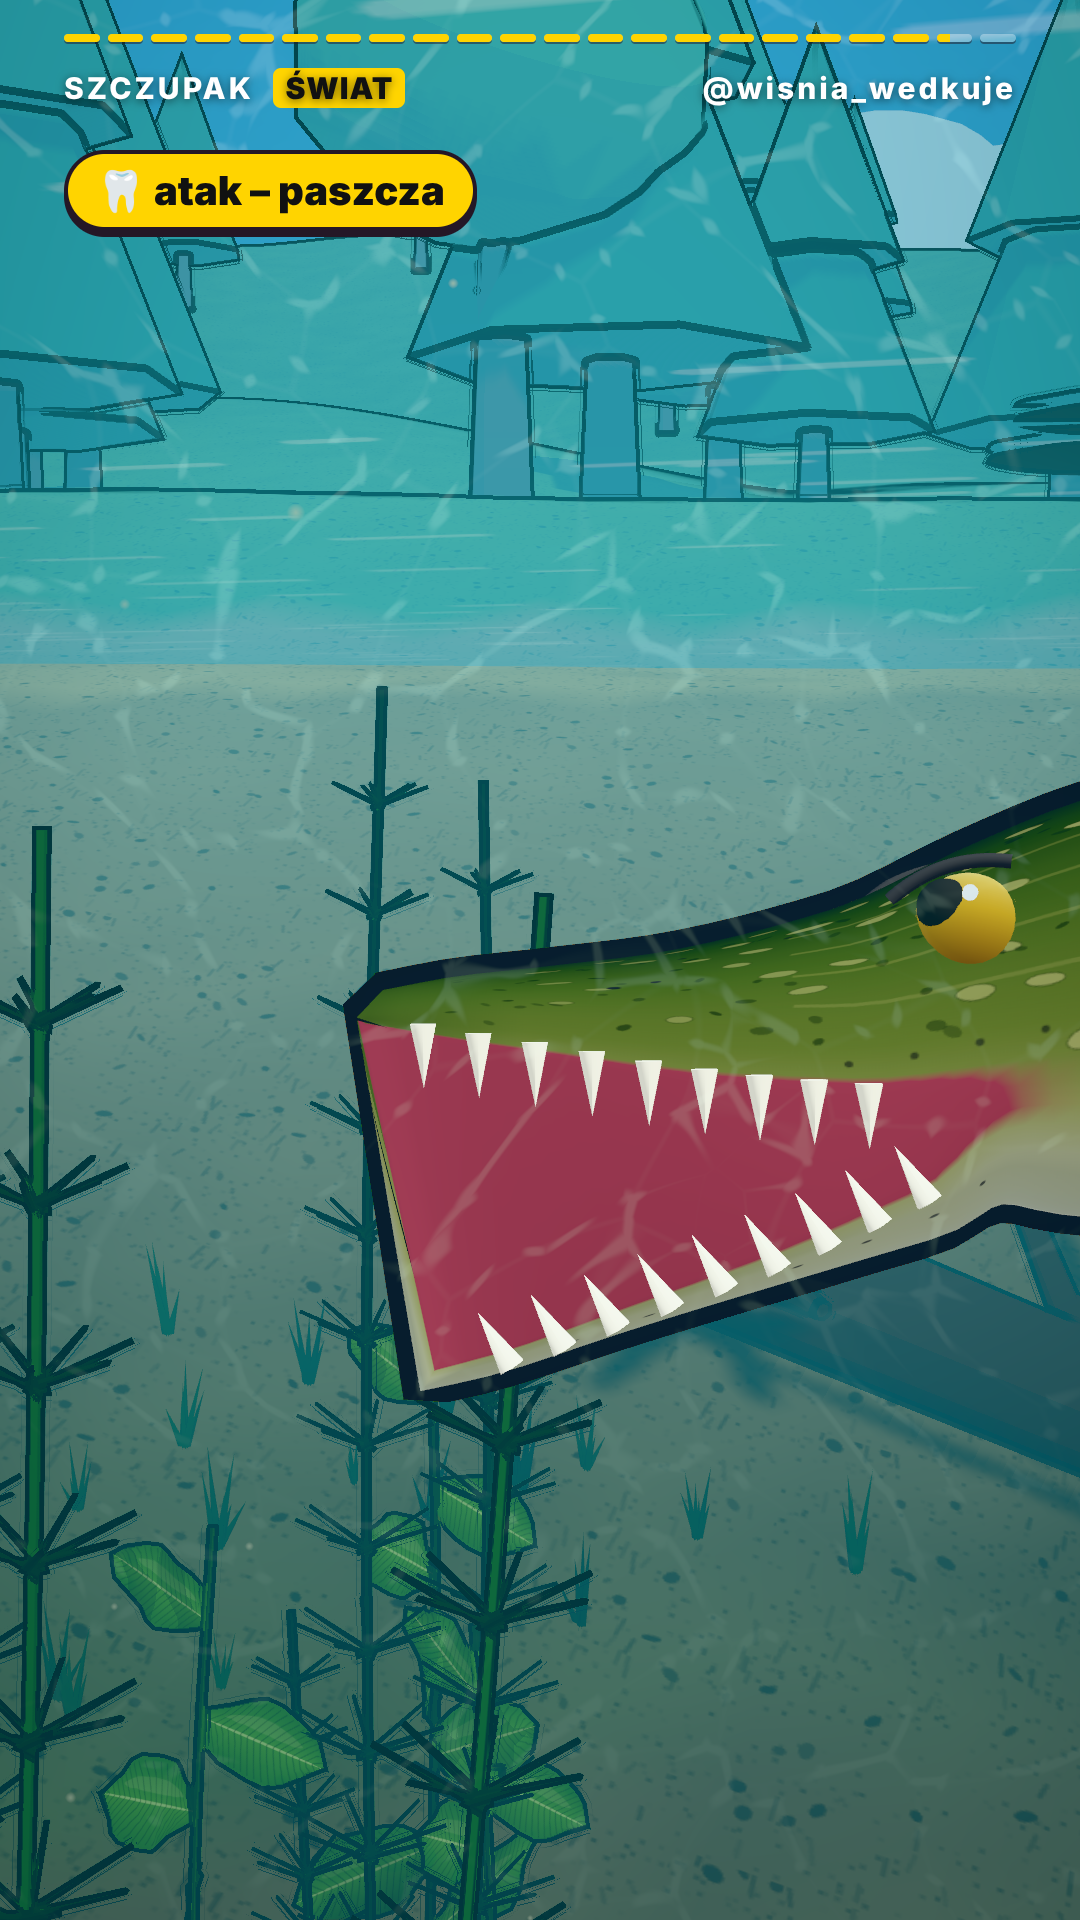
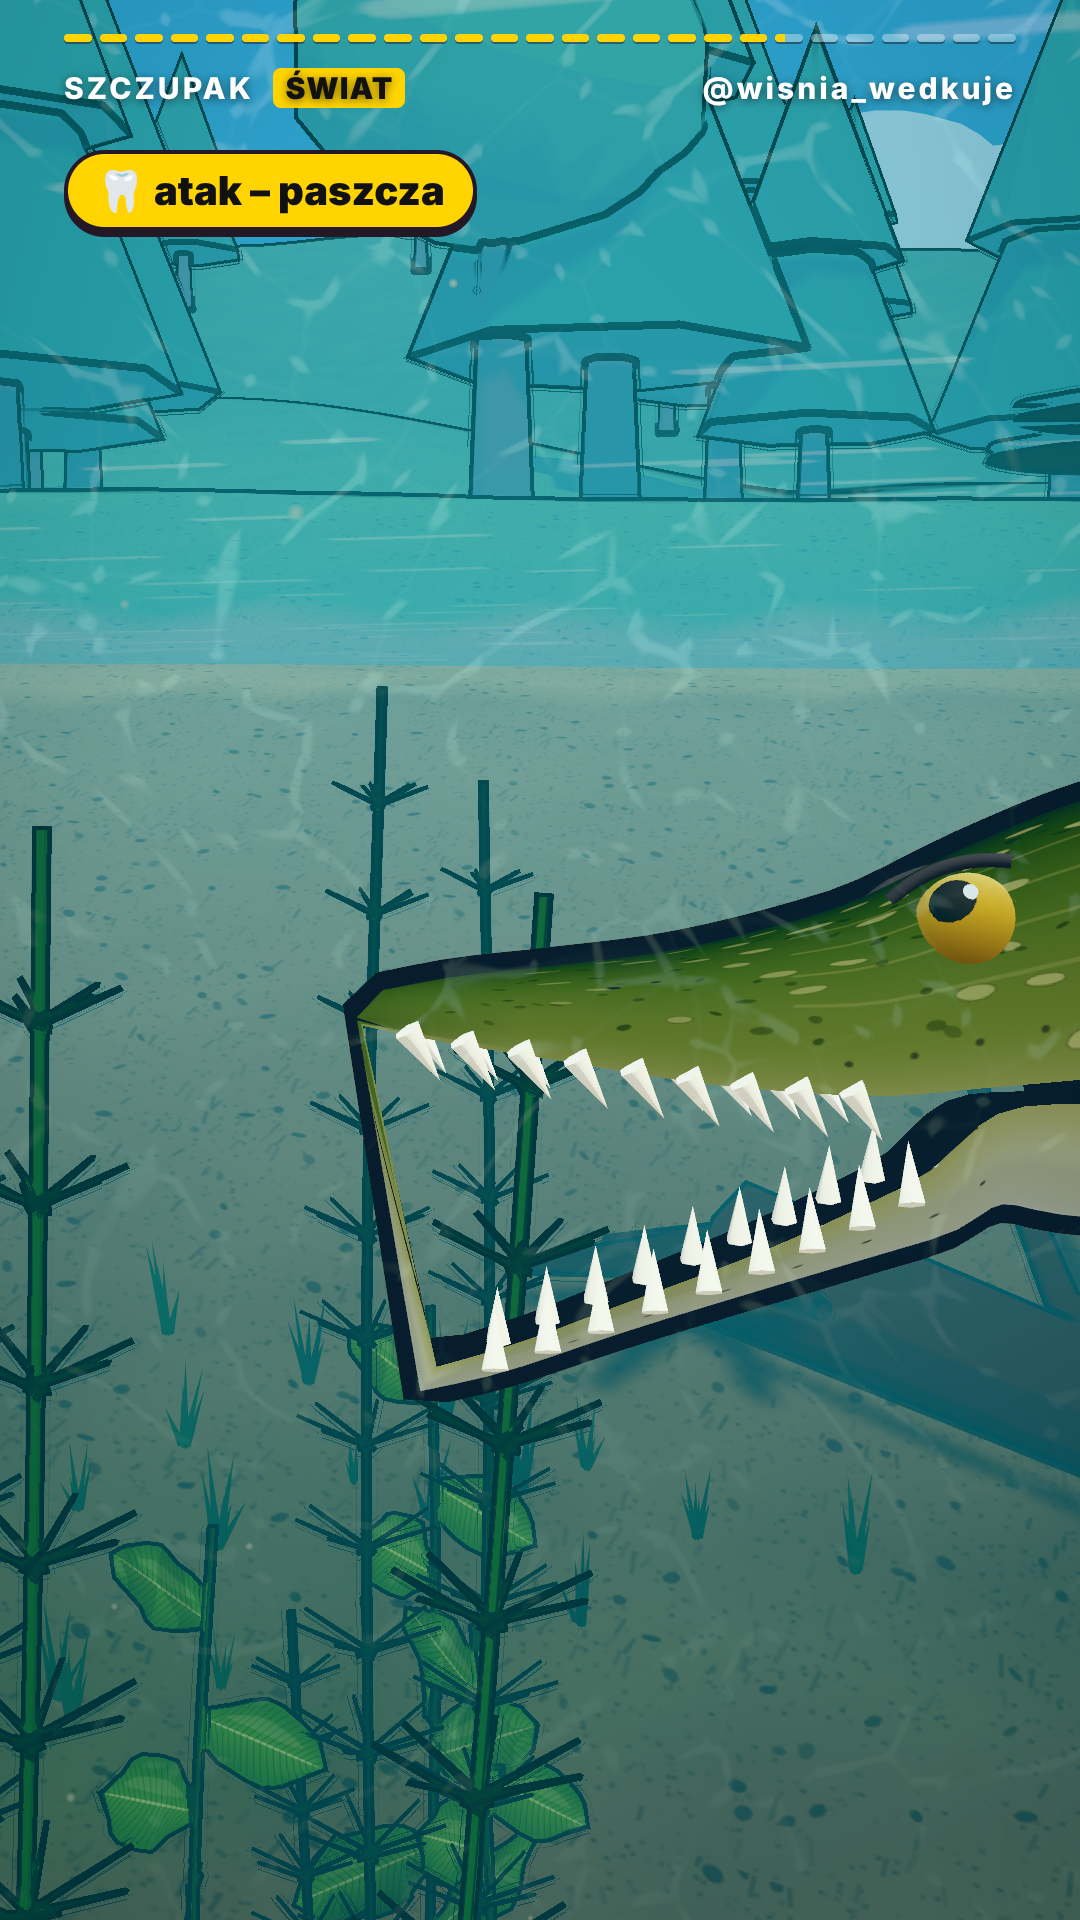
Szczupak: otwarta paszcza bez różowego wypełnienia (szczelina przezroczysta), zęby zadarte do środka pyska
Claude-Session: https://claude.ai/code/session_01YFDAx3363ZnHR5mXZwci3a

diff --git a/atlas3d/postacie.js b/atlas3d/postacie.js
@@ -498,21 +498,25 @@ export function stworzSzczupaka({ wys = .6, mina = 'spokojny' } = {}) {
   const uZ = .82, C0 = Math.cos(.6 * Math.PI), zaw = new THREE.Vector3(x0 + uZ * Lb, przekroj(uZ)[2] * Lb - .01 * Lb, 0), zuchwa = [], usta = new Float32Array(geo.attributes.position.count);
   for (let i = 0; i <= NU; i++) { const u = i / NU; if (u < uZ - .02) continue;
     for (let j = 0; j <= NT; j++) { const k = i * (NT + 1) + j, c = Math.cos(j / NT * Math.PI * 2), w = c < C0 ? sm((u - uZ + .02) / .06) : 0; if (w > 0) zuchwa.push([k, w]);
-      const cN = Math.cos((j + (j < NT / 2 ? 1 : -1)) / NT * Math.PI * 2); if ((c >= C0) !== (cN >= C0) || (c < C0 && Math.cos((j - (j < NT / 2 ? 1 : -1)) / NT * Math.PI * 2) >= C0)) usta[k] = sm((u - uZ + .02) / .06); } }   // pas na linii pyska: przy otwarciu rozciąga się i jest wnętrzem paszczy
+      const cN = Math.cos((j + (j < NT / 2 ? 1 : -1)) / NT * Math.PI * 2); if ((c >= C0) !== (cN >= C0) || (c < C0 && Math.cos((j - (j < NT / 2 ? 1 : -1)) / NT * Math.PI * 2) >= C0)) usta[k] = 1; } }   // pas na linii pyska: przy otwarciu rozciąga się i jest wnętrzem paszczy
   geo.setAttribute('aUsta', new THREE.Float32BufferAttribute(usta, 1));
   { const uP = { value: 0 }; cialo.userData.uPasz = uP; const m = cialo.material, wcz = m.onBeforeCompile;
     m.onBeforeCompile = (sh, r) => { if (wcz) wcz(sh, r); sh.uniforms.uPasz = uP;
       sh.vertexShader = 'attribute float aUsta;\nvarying float vUsta;\n' + sh.vertexShader.replace('#include <begin_vertex>', '#include <begin_vertex>\n  vUsta = aUsta;');
-      sh.fragmentShader = 'uniform float uPasz;\nvarying float vUsta;\n' + sh.fragmentShader.replace('#include <emissivemap_fragment>', '#include <emissivemap_fragment>\n  totalEmissiveRadiance = mix(totalEmissiveRadiance, vec3(.30, .05, .08), clamp(vUsta * uPasz * 3., 0., 1.));\n  diffuseColor.rgb = mix(diffuseColor.rgb, vec3(.2, .03, .05), clamp(vUsta * uPasz * 3., 0., 1.));'); };
-    m.customProgramCacheKey = () => 'paszczaSzczupaka'; }
+      sh.fragmentShader = 'uniform float uPasz;\nvarying float vUsta;\n' + sh.fragmentShader.replace('void main() {', 'void main() {\n  if (uPasz > .03 && vUsta > .985) discard;'); };   // otwarta paszcza: rozciągnięty pas między szczękami znika – szczelina przezroczysta, widać zęby
+    m.customProgramCacheKey = () => 'paszczaSzczupaka';
+    const ow = otoczka.material.onBeforeCompile; otoczka.material.onBeforeCompile = (sh, r) => { ow(sh, r); sh.uniforms.uPasz = uP;
+      sh.vertexShader = 'attribute float aUsta;\nvarying float vUsta;\n' + sh.vertexShader.replace('#include <begin_vertex>', '#include <begin_vertex>\n  vUsta = aUsta;');
+      sh.fragmentShader = 'uniform float uPasz;\nvarying float vUsta;\n' + sh.fragmentShader.replace('void main() {', 'void main() {\n  if (uPasz > .03 && vUsta > .985) discard;'); };
+    otoczka.material.customProgramCacheKey = () => 'otoczkaSzczPaszcza'; }
   const gardlo = new THREE.Mesh(new THREE.SphereGeometry(1, 16, 10), new THREE.MeshBasicMaterial({ color: '#4a1018' })); gardlo.material.customProgramCacheKey = () => 'gardloSzczupaka'; gardlo.material.userData.jasnosc = .3; gardlo.scale.set(.085 * Lb, .02 * Lb, .03 * Lb);
   gardlo.position.set(x0 + .91 * Lb, przekroj(.91)[2] * Lb, 0); gardlo.layers.set(POSTACIE); grupa.add(gardlo);
   const zab = new THREE.ConeGeometry(.0042 * Lb, .018 * Lb, 6), bialy = new THREE.MeshLambertMaterial({ color: '#fffaf0', emissive: '#cfc8b8' }), zebyD = new THREE.Group();
   bialy.userData.jasnosc = 1; bialy.customProgramCacheKey = () => 'zebySzczupaka'; zebyD.position.copy(zaw); grupa.add(zebyD);
-  const naLinii = (u, dc) => { const [h, w, yc, n] = przekroj(u), c = C0 + dc, e = 2 / n, sn = Math.sqrt(1 - c * c); return [(yc - h * Math.pow(-c, e)) * Lb, w * Math.pow(sn, e) * Lb * 1.1]; };   // punkt na linii pyska (z boku)
+  const naLinii = (u, dc) => { const [h, w, yc, n] = przekroj(u), c = C0 + dc, e = 2 / n, sn = Math.sqrt(1 - c * c); return [(yc - h * Math.pow(-c, e)) * Lb, w * Math.pow(sn, e) * Lb * 1.0]; };   // punkt na linii pyska (z boku)
   for (let i = 0; i < 9; i++) { const u = .86 + i * .015, [yD, zD] = naLinii(u, -.06), [yG, zG] = naLinii(u, .06), xs = x0 + u * Lb + Lb * .012 * sm((u - .9) / .1) * .3;
-    for (const sg of [1, -1]) { const zg = new THREE.Mesh(zab, bialy); zg.position.set(xs - zaw.x, yD - zaw.y + .004 * Lb, sg * zD); zg.layers.set(POSTACIE); zebyD.add(zg);   // zęby żuchwy (ostrzem w górę)
-      const zgG = new THREE.Mesh(zab, bialy); zgG.rotation.z = Math.PI; zgG.position.set(xs, yG - .004 * Lb, sg * zG); zgG.layers.set(POSTACIE); grupa.add(zgG); zgG.userData.zabG = 1; } }   // zęby górnej szczęki (w dół)
+    for (const sg of [1, -1]) { const zg = new THREE.Mesh(zab, bialy); zg.position.set(xs - zaw.x, yD - zaw.y + .004 * Lb, sg * zD); zg.quaternion.setFromUnitVectors(new THREE.Vector3(0, 1, 0), new THREE.Vector3(-.5, .82, -sg * .28).normalize()); zg.layers.set(POSTACIE); zebyD.add(zg);   // zęby żuchwy (ostrzem w górę)
+      const zgG = new THREE.Mesh(zab, bialy); zgG.position.set(xs, yG - .004 * Lb, sg * zG); zgG.quaternion.setFromUnitVectors(new THREE.Vector3(0, 1, 0), new THREE.Vector3(-.5, -.82, -sg * .28).normalize()); zgG.layers.set(POSTACIE); grupa.add(zgG); zgG.userData.zabG = 1; } }   // zęby górnej szczęki (w dół)
   let pasz = 0, tPasz;
   grupa.traverse(o => { if (o.isMesh) { o.renderOrder = kb; } });
   const faza = Math.random() * 6;
@@ -528,7 +532,7 @@ export function stworzSzczupaka({ wys = .6, mina = 'spokojny' } = {}) {
     const ka = -.55 * pasz;
     if (pasz > .002) for (const [k, w] of zuchwa) { const x = b0[k * 3] - zaw.x, y = b0[k * 3 + 1] - zaw.y, a2 = ka * w, ca = Math.cos(a2), sa = Math.sin(a2); P[k * 3] = zaw.x + x * ca - y * sa; P[k * 3 + 1] = zaw.y + x * sa + y * ca; }
     else for (const [k] of zuchwa) { P[k * 3] = b0[k * 3]; P[k * 3 + 1] = b0[k * 3 + 1]; }
-    zebyD.rotation.z = ka; zebyD.visible = gardlo.visible = pasz > .05; grupa.children.forEach(o => { if (o.userData.zabG) o.visible = pasz > .05; }); cialo.userData.uPasz.value = pasz; grupa.children.forEach(o => { if (o.geometry === zab && o.parent === grupa) o.visible = pasz > .05; });
+    zebyD.rotation.z = ka; zebyD.visible = pasz > .05; gardlo.visible = false; grupa.children.forEach(o => { if (o.userData.zabG) o.visible = pasz > .05; }); cialo.userData.uPasz.value = pasz; grupa.children.forEach(o => { if (o.geometry === zab && o.parent === grupa) o.visible = pasz > .05; });
     geo.attributes.position.needsUpdate = true;
     const dzO = fala(0), kat = Math.atan2(fala(.02) - fala(0), .02 * Lb);
     ogonPiw.position.z = dzO; ogonPiw.rotation.y = kat * 1.6 + .25 * Math.sin(w * t + ph - 3.3) * (st.ogon ?? 1);
